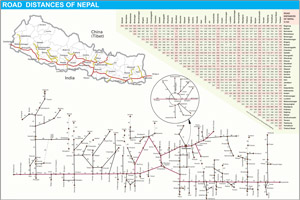
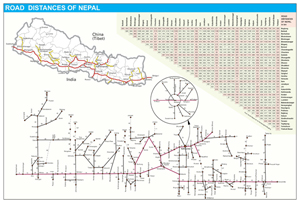
now with modal preview  larger modal preview images

diff --git a/js/main.js b/js/main.js
@@ -345,7 +345,7 @@ function callModal (item) {
     window.open(thisUrl);
   } else {
     var modalDescription = $(item).find('.modalDescription').html();
-    var mapJpg = $(item).find('img').attr("data-original").slice(0,-10) + '_thumb.jpg';
+    var mapJpg = $(item).find('img').attr("data-original").slice(0,-10) + '_small.jpg';
     var img_maxHeight = (windowHeight*0.45).toString() + "px";
     $(".modal-detailedDescription").empty();
     $(".modal-detailedDescription").html(modalDescription);
